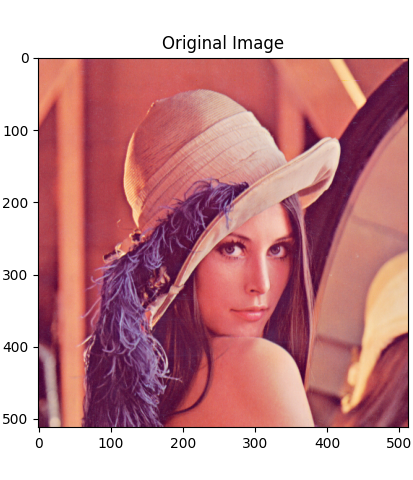
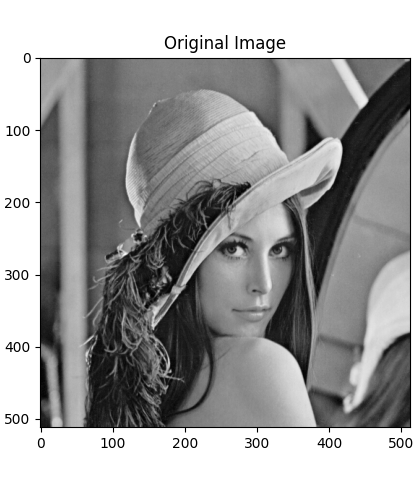
Verbesserung

diff --git a/AB03_Anne_Schmidt_11141929.py b/AB03_Anne_Schmidt_11141929.py
@@ -3,7 +3,7 @@ import numpy as np
 import matplotlib.pyplot as plt
 
 # Read input image
-input_img = cv2.imread("Utils/test.jpg")
+# input_img = cv2.imread("Utils/test.jpg")
 
 
 # Function to compute histogram of grayscale image
@@ -104,30 +104,32 @@ def apply_median_filter(img, m, n):
             # Compute median value of kernel region and assign to filtered image
             filtered_image[y - padding_size, x - padding_size] = np.median(kernel_region)
 
-    return filtered_image
+    return filtered_image, padded_image
 
 
-# Compute histogram of input image
-hist = histogram(input_img)
+# # Compute histogram of input image
+# hist = histogram(input_img)
+#
+# # Apply Otsu's thresholding to find optimal threshold
+# optimal_threshold = otsu_thresholding(hist)
+#
+# # Binarize image using the optimal threshold
+# otsu_img = binarization(input_img, optimal_threshold)
+#
+# # Display binary image using otsu threshold
+# plt.title("Binary Image with Otsu Threshold: " + str(optimal_threshold))
+# plt.imshow(otsu_img, cmap='gray')
+# plt.show()
+#
+# median_value = calculate_median(input_img)
+# median_img = binarization(input_img, median_value)
+#
+# # Display binary image using median threshold
+# plt.title("Binary Image with Median Threshold: " + str(median_value))
+# plt.imshow(median_img, cmap='gray')
+# plt.show()
 
-# Apply Otsu's thresholding to find optimal threshold
-optimal_threshold = otsu_thresholding(hist)
-
-# Binarize image using the optimal threshold
-otsu_img = binarization(input_img, optimal_threshold)
-
-# Display binary image using otsu threshold
-plt.title("Binary Image with Otsu Threshold: " + str(optimal_threshold))
-plt.imshow(otsu_img, cmap='gray')
-plt.show()
-
-median_value = calculate_median(input_img)
-median_img = binarization(input_img, median_value)
-
-# Display binary image using median threshold
-plt.title("Binary Image with Median Threshold: " + str(median_value))
-plt.imshow(median_img, cmap='gray')
-plt.show()
+input_img = cv2.imread("Utils/LennaCol.png", cv2.IMREAD_GRAYSCALE)
 
 m = 3
 n = 3
@@ -135,11 +137,13 @@ filtered_img = apply_median_filter(input_img, m, n)
 
 # Display binary image using median threshold
 plt.title("Filtered Image with Kernel Size (M: " + str(m) + " & N: " + str(n) + ")")
-plt.imshow(filtered_img)
+plt.imshow(filtered_img[0], cmap="gray")
 plt.show()
 
-input_img = cv2.imread("Utils/test.jpg")
-input_img = cv2.cvtColor(input_img, cv2.COLOR_BGR2RGB)
+plt.title("Padded Image")
+plt.imshow(filtered_img[1], cmap="gray")
+plt.show()
+
 plt.title("Original Image")
-plt.imshow(input_img)
+plt.imshow(input_img, cmap="gray")
 plt.show()
